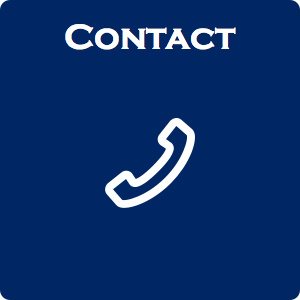
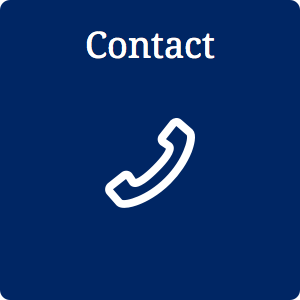
Updated font on square figures on homepage.  Media queries added for nav-brand on mobile devices.

Changed region(s): [[0.21, 0.06, 0.81, 0.21]]

diff --git a/public/css/welcome-2.css b/public/css/welcome-2.css
@@ -349,17 +349,19 @@ td > #send{
 	font-size: 32px;
 }
 
+@media screen and (max-width: 776px) {
+	#sign-up-container{display:none;}
+	#sign-up-container-sm{display:block;}
+
+}
 
 @media screen and (max-width: 785px) {
 	#service-area-map{display:none; }
 	#service-area-title{display:none; }
 	#sign-up-form{margin-top: 0;}
-}
-
-@media screen and (max-width: 776px) {
-	#sign-up-container{display:none;}
-	#sign-up-container-sm{display:block;}
-
+	#sign-up-container form{margin-top:25px;}
+	.item.active h1{display:none; background:none;}
+	.item.active h3{display:none; background:none;}
 }
 
 @media screen and (max-width: 845px){
@@ -374,6 +376,12 @@ td > #send{
 	#contact-us-container{display:none;}
 }
 
+@media screen and (min-width: 992px){
+	#sign-up-container form{margin-top:80px;}
+}
+
 @media screen and (max-width: 1067px){
 	#welcome-contact-sidebar{margin-left:0;}
 }
+
+

diff --git a/public/css/master.css b/public/css/master.css
@@ -379,7 +379,7 @@ nav{
 @media (max-width: 880px) {
 
 	.footer-distributed{
-		font: bold 14px sans-serif;
+		font: bold 14px;
 	}
 
 	.footer-distributed .footer-left,
@@ -397,6 +397,15 @@ nav{
 
 }
 
+@media screen and (max-width: 350px){
+	#nav-brand{top:10px;}
+}
+
+@media screen and (max-width: 450px){
+	#nav-brand{left:-10px;}
+	#content{margin-top:90px;}
+}
+
 @media screen and (max-width: 1200px){
 	#nav-brand img{width:400px; top:0;}
 }
@@ -405,12 +414,3 @@ nav{
 	#nav-brand img{top:-5px;}
 }
 
-@media screen and (min-width: 992px){
-	#sign-up-container form{margin-top:80px;}
-}
-
-@media screen and (max-width: 786px){
-	#sign-up-container form{margin-top:25px;}
-	.item.active h1{display:none; background:none;}
-	.item.active h3{display:none; background:none;}
-}

diff --git a/public/css/admin.css b/public/css/admin.css
@@ -77,6 +77,7 @@ body{
 /***** Common CSS *****/
 
 h1{
+	font-family: 'Droid Serif', serif !important;
 	color:#bf0000;
 	margin-bottom:50px;
 	margin-top:50px;

diff --git a/resources/views/master.blade.php b/resources/views/master.blade.php
@@ -19,7 +19,7 @@
     {!! Html::style('css/font-awesome.css') !!}
     {!! Html::style('css/nexus.css') !!}
     {!! Html::style('css/custom.css') !!}
-    {!! Html::style('css/welcome.css') !!}
+    {!! Html::style('css/welcome-2.css') !!}
     {!! Html::style('css/master.css') !!}
     {!! Html::script('js/jquery.min.js') !!}
     {!! Html::script('js/bootstrap.min.js') !!}
